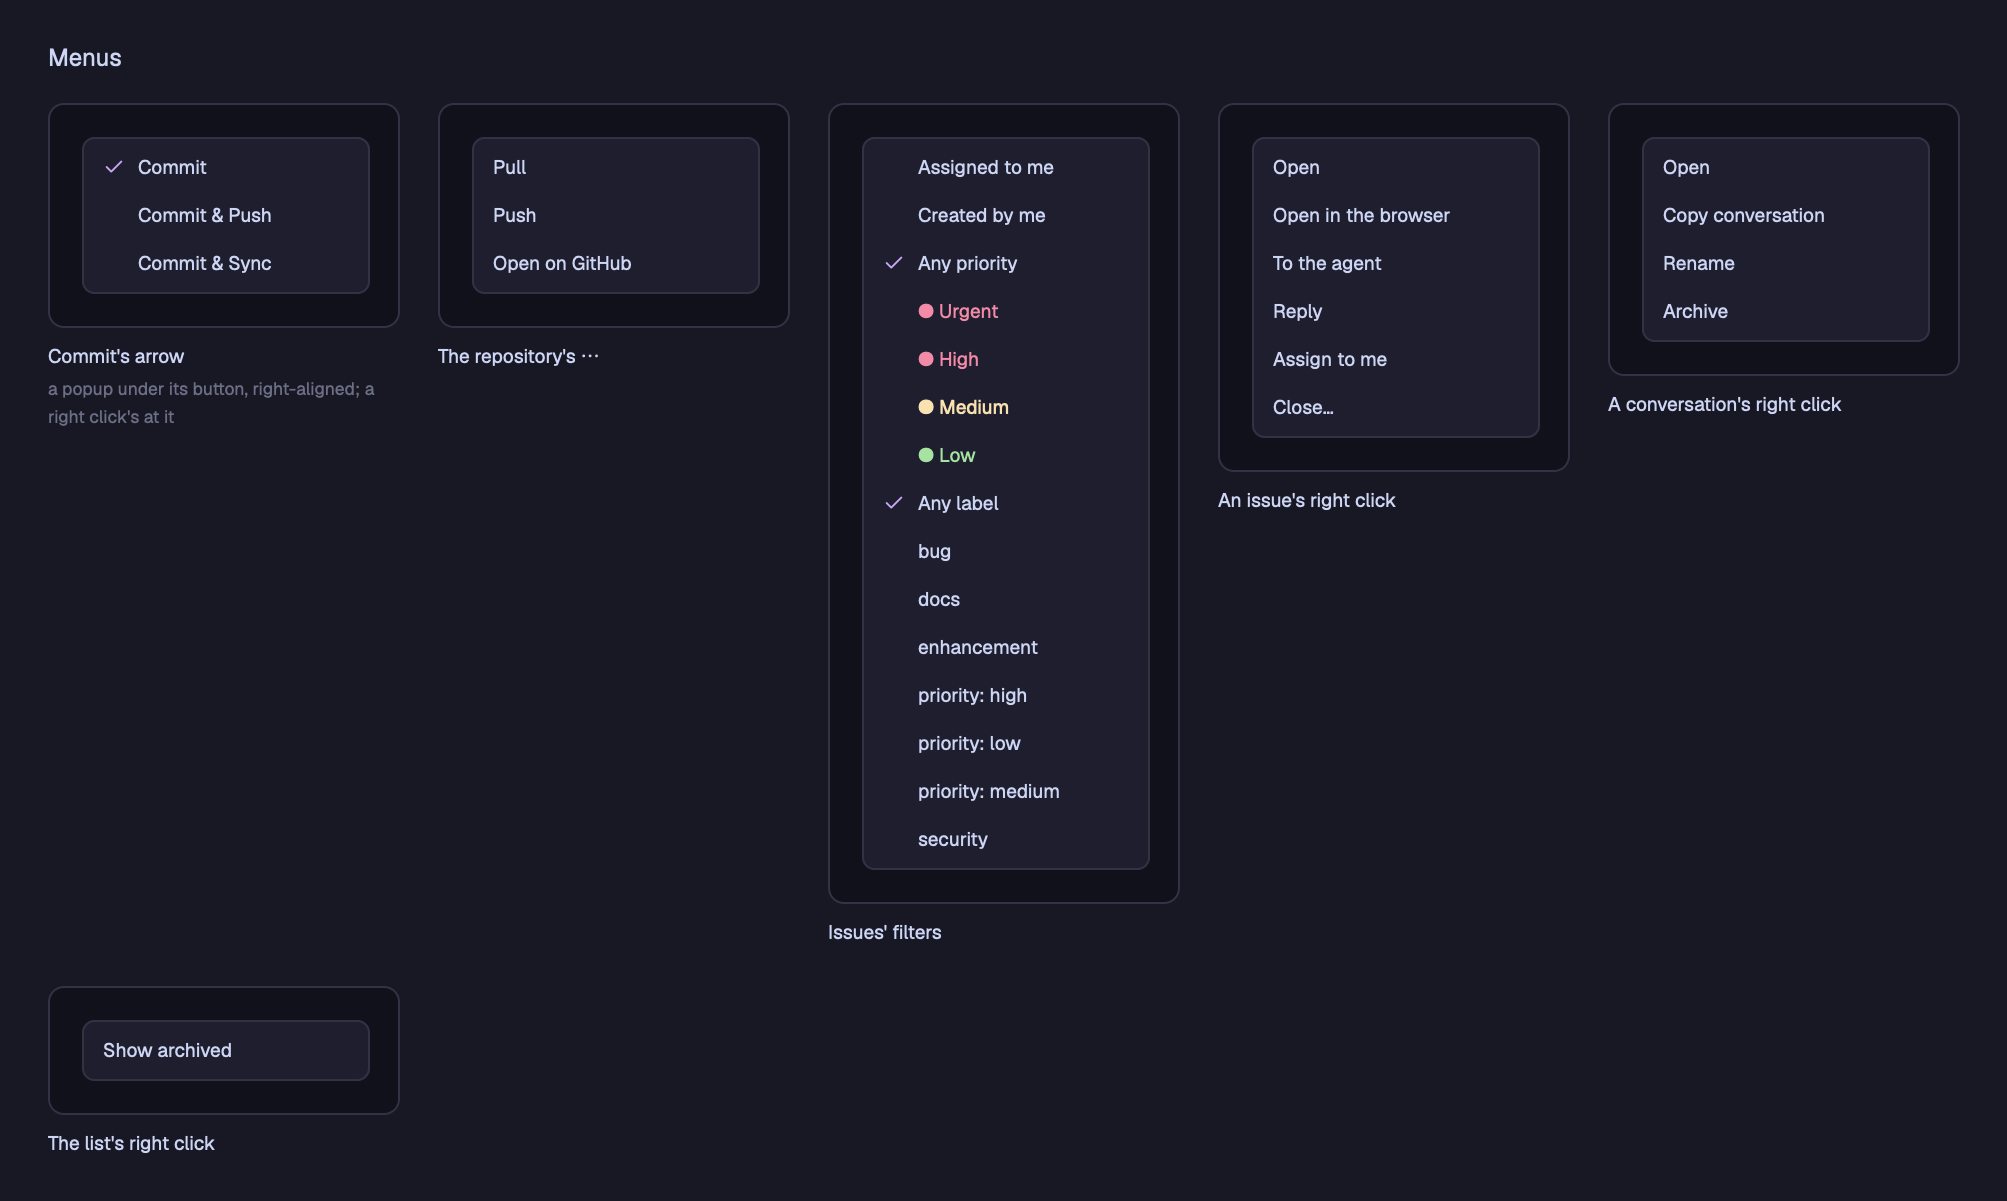
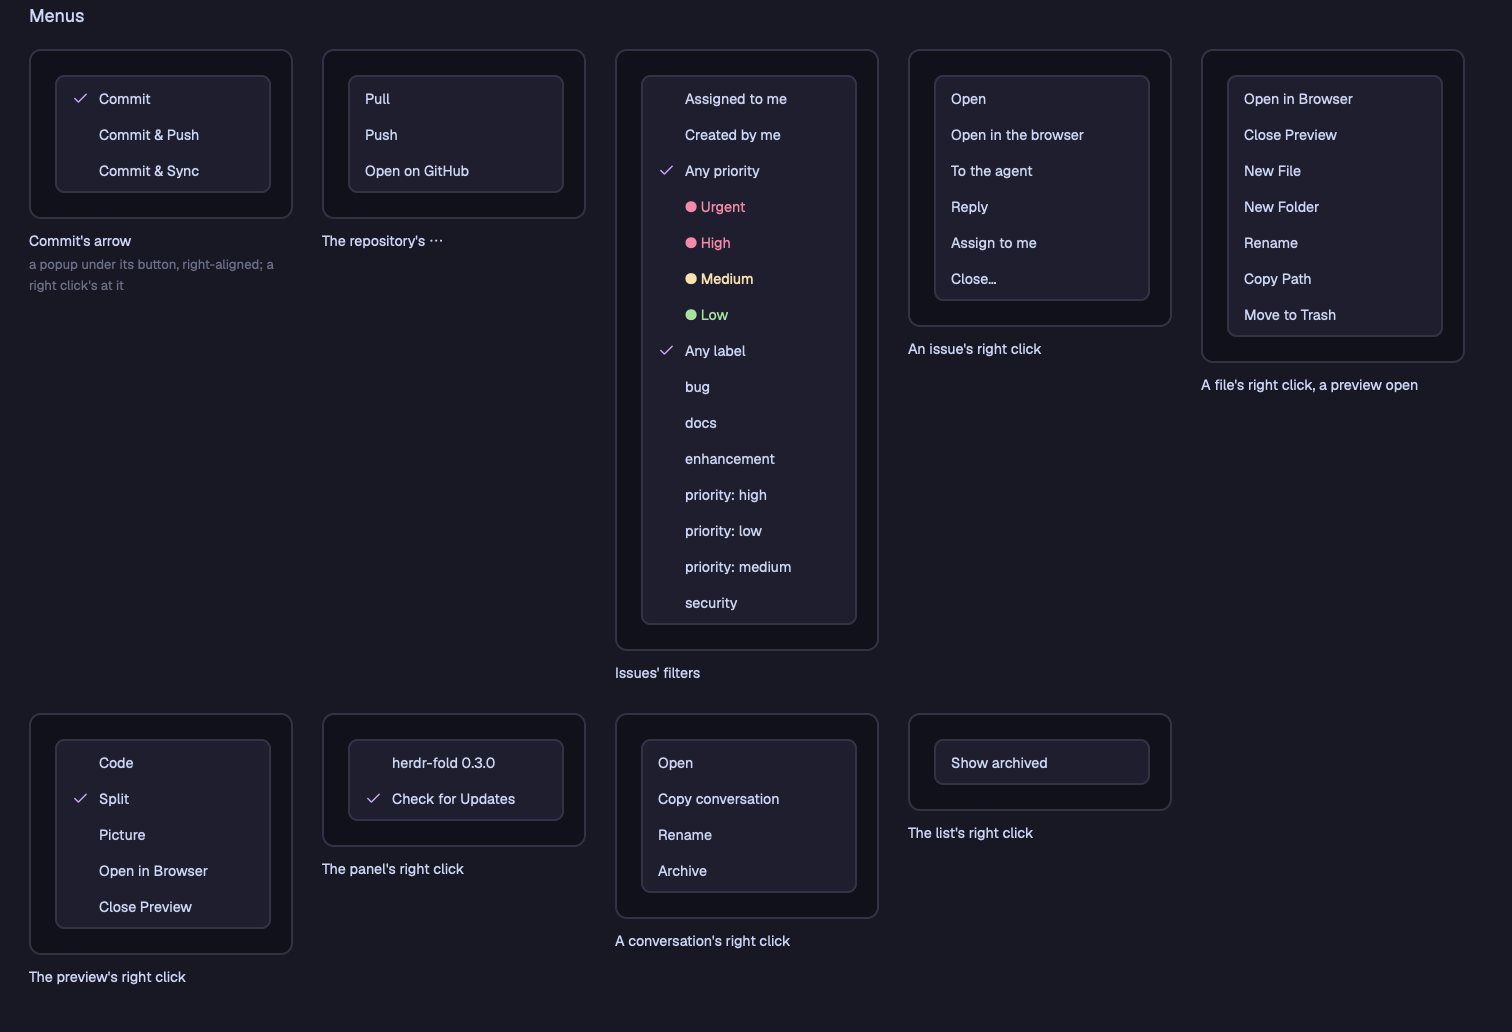
docs(styleguide): show the new menus, previews and the first tab's name
- Add Files' right click with a preview open, the preview's and the panel's
- Take the preview tab's, the tab bar's and the menus' pictures again
- Hand Files its preview tab, so the styleguide shows Close Preview

diff --git a/app/mods/herdr-fold/styleguide.js b/app/mods/herdr-fold/styleguide.js
@@ -4,7 +4,7 @@
 import { div } from "gpui-kit";
 import { v_flex, h_flex, InputState } from "gpui-base";
 import { BY_EXTENSION, BY_NAME, FILE, ICONS } from "./icons.js";
-import { commitRows, conversationRows, diffRows, foldedSections, listHeight, pushOffer, RAIL, searchRows }
+import { aboutLines, commitRows, conversationRows, diffRows, foldedSections, listHeight, pushOffer, RAIL, searchRows }
   from "./logic.js";
 import { ConversationsView } from "./conversations.js";
 import { IssuesView } from "./issues.js";
@@ -156,7 +156,7 @@ const HIDDEN_FOLDERS = { ...FOLDERS, "": { more: 0, entries: [entry(".git", true
 function filesOf(fields = {}) {
   const view = Object.assign(Object.create(FilesView.prototype), { key: "styleguide", root: "/work/lumen-api",
     on: null, folders: FOLDERS, open: new Set(["src", "src/lumen"]), picked: null, naming: null, asking: null,
-    note: null, hidden: false, loading: false, menus: new Menus() }, fields);
+    note: null, hidden: false, loading: false, menus: new Menus(), previewTab: () => ({ id: "styleguide" }) }, fields);
   for (const name of INERT_FILES) view[name] = () => {};
   return view;
 }
@@ -194,10 +194,10 @@ function issuesOf(state, fields) {
   return issues;
 }
 
-/** The preview tab with FIELDS: what it shows, loading, or why nothing. */
+/** The preview tab with FIELDS: what it shows, loading, or why nothing; its board's size draws nothing anew here. */
 function previewOf(fields) {
-  return Object.assign(new Preview("styleguide", null), { what: { n: 0, level: 1, ranked_by: "priority: high" } },
-    fields);
+  return Object.assign(new Preview("styleguide", null), { what: { n: 0, level: 1, ranked_by: "priority: high" },
+    fit: () => {} }, fields);
 }
 
 /** The made-up states the components show, made once (what is typed in them stays). @param {any} proto */
@@ -253,6 +253,8 @@ export function guide(proto) {
       ...[["split", "A page, its code and picture"], ["code", "Its code alone"], ["picture", "Its picture alone"]]
         .map(([shown, name]) => [name, previewOf({ rows: HTML, picture: { png: PAGE }, drawing: true, shown }), 320])],
     issue: previewOf({ issue: ISSUE }),
+    page: previewOf({ rows: HTML, picture: { png: PAGE }, drawing: true, shown: "split", what: { n: 0, kind: "file",
+      path: "docs/pagination.html", root: "/work/lumen-api", on: null } }),
     files: [["Default", filesOf()], ["A file chosen", filesOf({ picked: "src/lumen/app.py" })],
       ["A full folder", filesOf({ open: new Set(["src", "src/lumen", "src/lumen/routes"]) })],
       ["Hidden files shown", filesOf({ hidden: true, folders: HIDDEN_FOLDERS, open: new Set() })],
@@ -381,6 +383,9 @@ function sections(g, t) {
         fixed(state.folded.has("graph") ? 26 : 32 + COMMITS.length * 24, state.graph(t)))))]],
     ["menus", [group(t, "Menus", [["Commit's arrow", b.modes], ["The repository's ⋯", b.remote],
       ["Issues' filters", g.issues.issues.filters(t)], ["An issue's right click", b.issues.picks(LISTED[0])],
+      ["A file's right click, a preview open", g.files[0][1].items({ path: "docs/pagination.html", dir: false })],
+      ["The preview's right click", g.page.items()],
+      ["The panel's right click", aboutLines({ version: "0.3.0", on: true, releases: "https://example.com" })],
       ["A conversation's right click", g.conversations[0][1].choices(TALKS[3])],
       ["The list's right click", g.conversations[0][1].choices(null)]]
       .map(([name, items], i) => specimen(t, `menu-${i}`, name, div().p(20).child(div().w(180)

diff --git a/app/mods/herdr-fold/files.js b/app/mods/herdr-fold/files.js
@@ -27,6 +27,8 @@ export class FilesView {
   constructor(python, cx) {
     this.python = python;
     this.menus = new Menus();
+    /** the space's preview tab, or null: its right click offers Close Preview while there is one */
+    this.previewTab = shownPreviewTab;
     /** @type {string | null} */
     this.key = null;
     /** @type {string | null} the space's folder */
@@ -113,7 +115,7 @@ export class FilesView {
    * workspace in it. @param {{ path: string, dir: boolean }} row */
   items({ path, dir }) {
     const folder = dir ? path : folderOf(path);
-    const browsed = !dir && !this.on && mediaKind(path), shown = shownPreviewTab();
+    const browsed = !dir && !this.on && mediaKind(path), shown = this.previewTab();
     return [...(browsed ? [{ label: "Open in Browser", act: (cx) => this.browse(path, cx) }] : []),
       ...(shown ? [{ label: "Close Preview", act: () => command("tab.close", { id: shown.id }) }] : []),
       { label: "New File", act: (cx) => this.name("new-file", folder, cx) },

diff --git a/docs/styleguide.md b/docs/styleguide.md
@@ -129,8 +129,8 @@ as the panel, its head dragging it.
 
 ### Menus
 
-![The mod's menus: Commit's modes, the repository's ⋯, the issues' filters, an issue's and a conversation's right
-click](../assets/styleguide/menus.webp)
+![The mod's menus: Commit's modes, the repository's ⋯, the issues' filters, an issue's, a file's (a preview open), the
+preview's, the panel's and a conversation's right click](../assets/styleguide/menus.webp)
 
 Every menu is a popup (`Menus` in menus.js), as the app's own: under the button that opened it, its right edge with
 the button's, or at the pointer for a right click; it lays over what is below it, and a press beside it closes it.
